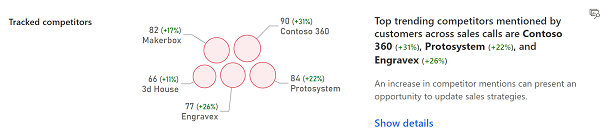
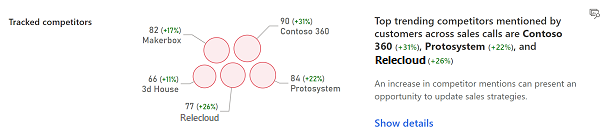
name update

Changed region(s): [[0.596, 0.4179, 0.7748, 0.5075], [0.298, 0.8358, 0.3874, 0.9254]]

diff --git a/ai-docs/sales/dynamics365-sales-insights-app-home-page.md b/ai-docs/sales/dynamics365-sales-insights-app-home-page.md
@@ -128,7 +128,7 @@ The following image is an example of how the "competitors mentioned" insight is 
 > [!div class="mx-imgBorder"]
 > ![Competitors mentioned](media/si-app-competitors-mentioned.png "Competitors mentioned")
 
-In this example, you can see that Contoso 360 (+31%), Engravex (+26%), and Protosystem (+22%) are the most trending competitors, and you can define a sales strategy related to these competitors. The bubbles show the top 20 competitors and the number of times that these competitors were mentioned in the calls. 
+In this example, you can see that Contoso 360 (+31%), Relecloud (+26%), and Protosystem (+22%) are the most trending competitors, and you can define a sales strategy related to these competitors. The bubbles show the top 20 competitors and the number of times that these competitors were mentioned in the calls. 
 
 You can define which competitors you want to track during the sales call. To learn more, see [Configure keywords and competitors to track](configure-keywords-competitors.md).
 
